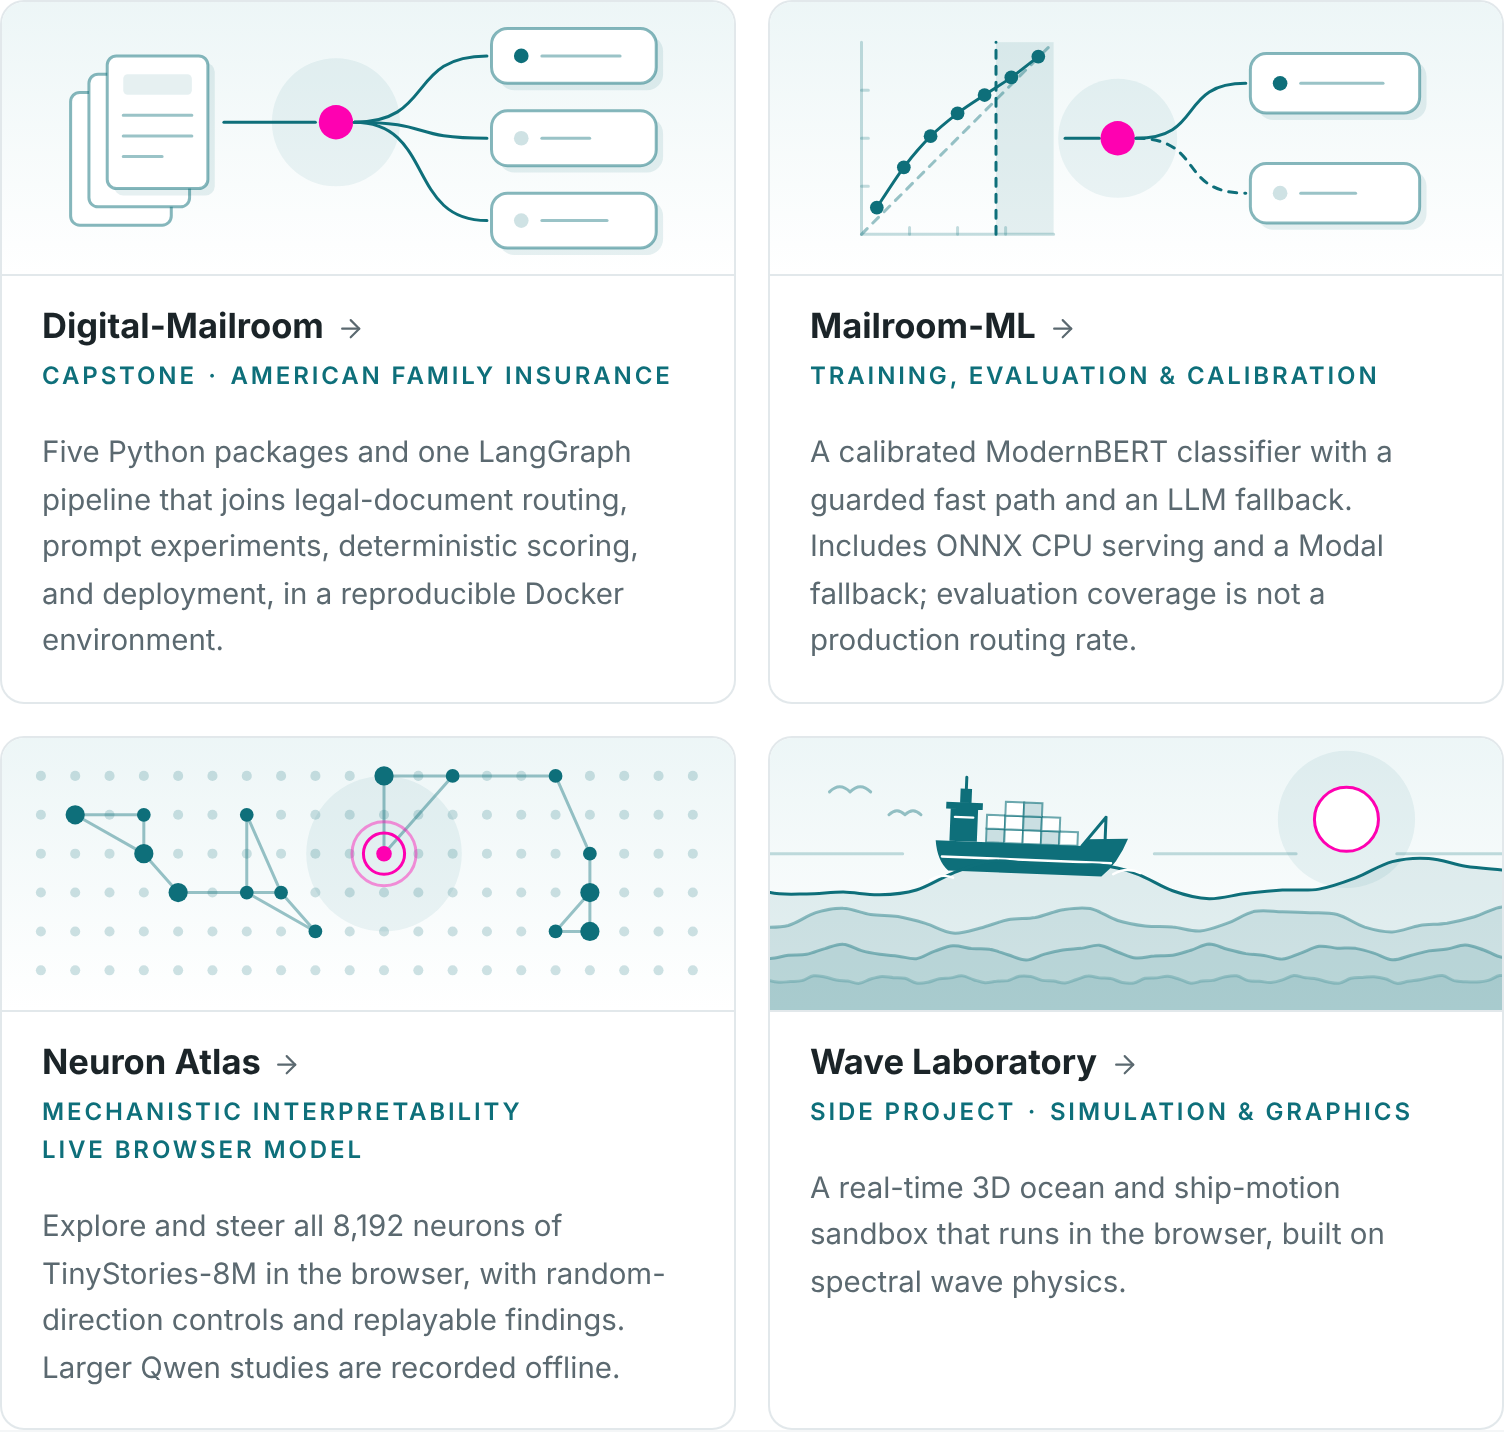
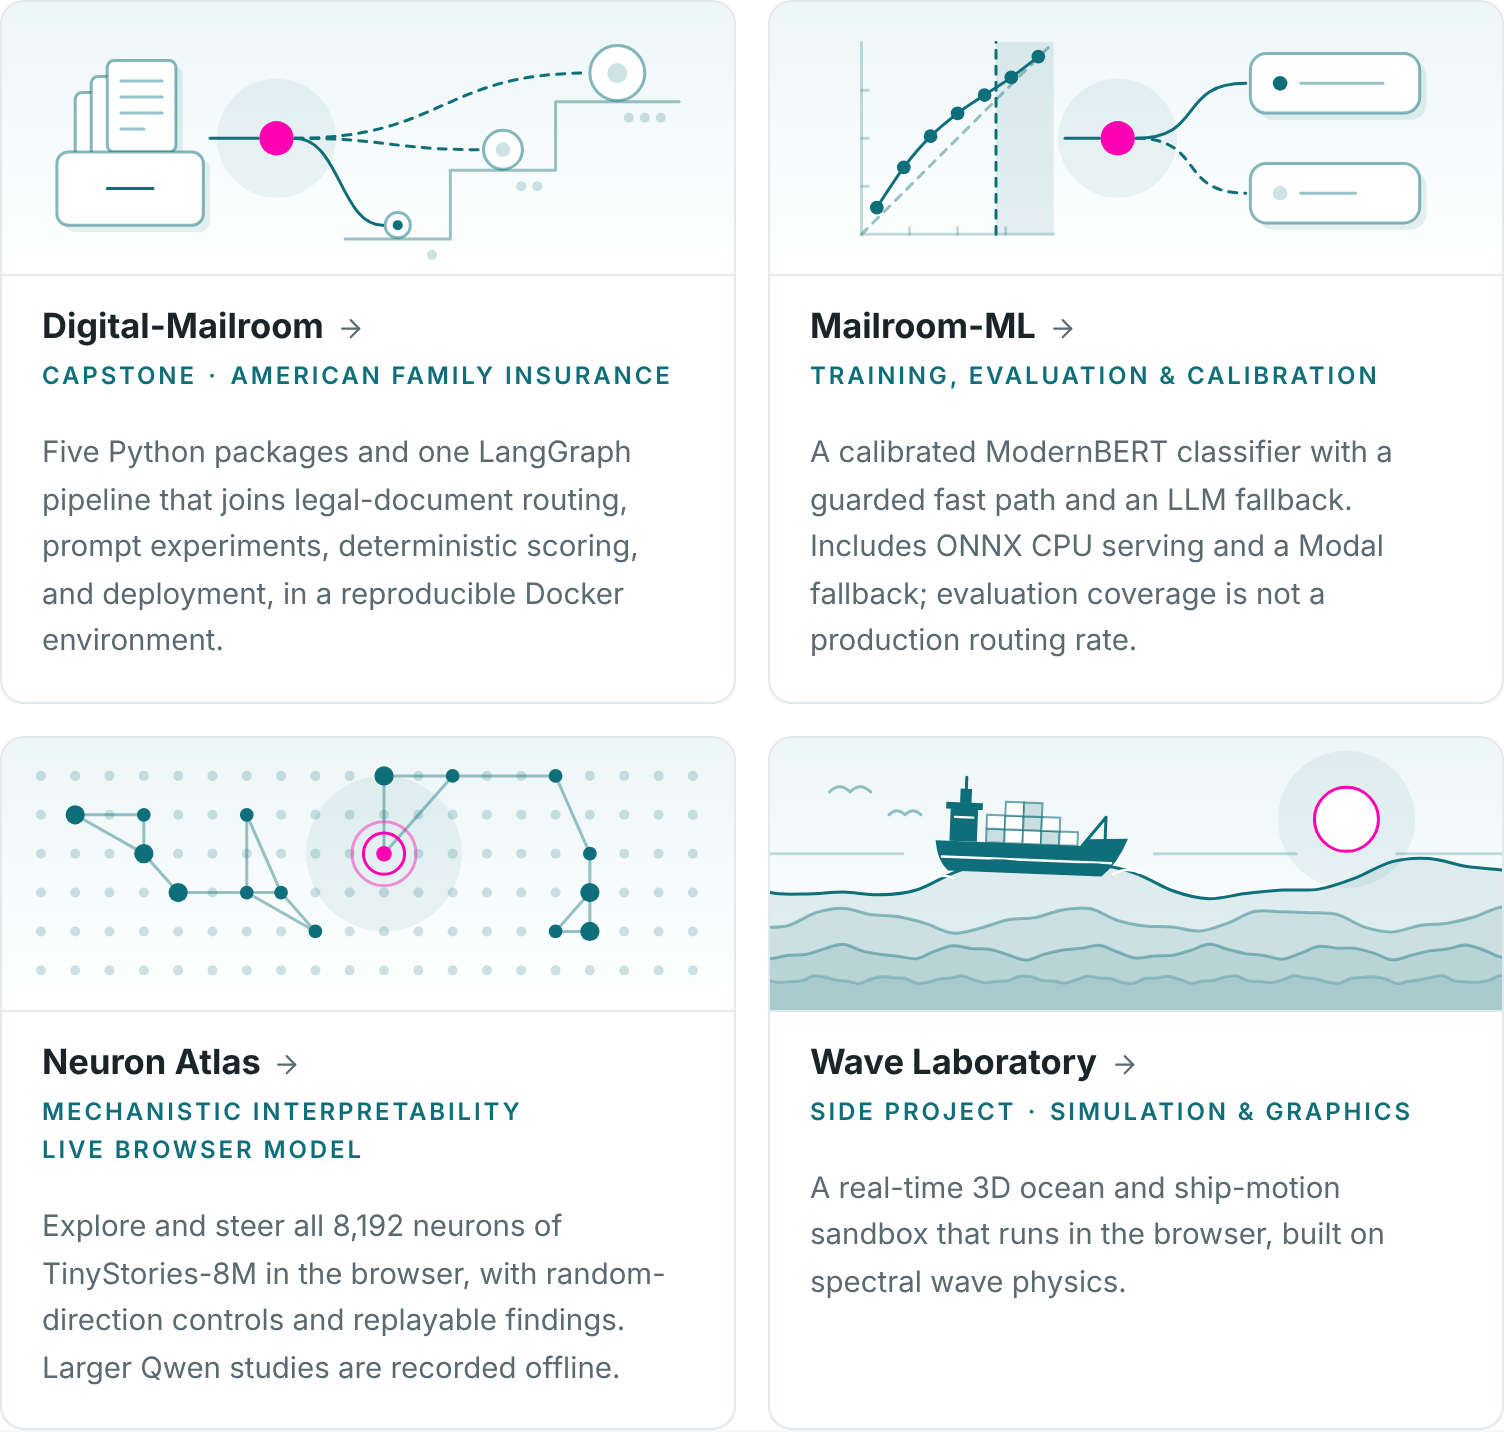
Refresh review screenshots and state notes

Changed region(s): [[0.0312, 0.0307, 0.4375, 0.1844]]

diff --git a/.10x/handoff.md b/.10x/handoff.md
@@ -1,7 +1,7 @@
 # Handoff
 Owner chose the tracked roadmap with Track 1 (visual identity and imagery) first.
 Design: `.10x/specs/2026-11-10-portfolio-experience-v2-design.md`. Approved by the owner on 2026-11-10.
-Built in pull request #116: the cover motif system (ADR-001), 14 motifs in one house style, and the pink accent `--pop`.
+Merged in pull request #116: the cover motif system (ADR-001), 14 motifs in one house style, and the pink accent `--pop`.
 Remaining work is tracked in issue #117 and its sub-issues #118 to #125. Start with #118: several motifs are still
-generic diagrams and must be redrawn to be specific to their project.
+generic diagrams and must be redrawn to be specific to their project. Three are done; #118 lists the rest.
 When a per-project social card sets `image:`, also set a matching `image-alt` (see #120).

diff --git a/.10x/status.md b/.10x/status.md
@@ -1,6 +1,7 @@
 # Status
 - Feature: portfolio-experience-v2
-- Phase: Phase 4; track 1. Cover motifs are on every project card in one house style, with the pink accent. Owner approved the motif style.
-- Date: 2026-11-10, main at 5d622fe
+- Phase: Phase 4; track 1. Pull request #116 is merged: cover motifs on every project card, the pink accent, and
+  project-specific redraws of Digital-Mailroom, RVL-CDIP-Classifier and MapReduce-Reloaded.
+- Date: 2026-11-10
 - Blocker: none
-- Next in track 1: lead screenshots on case studies, per-project social cards, layout corrections.
+- Next: issue #118 (remaining motif redraws), then #119 to #121. Tracker: #117.
